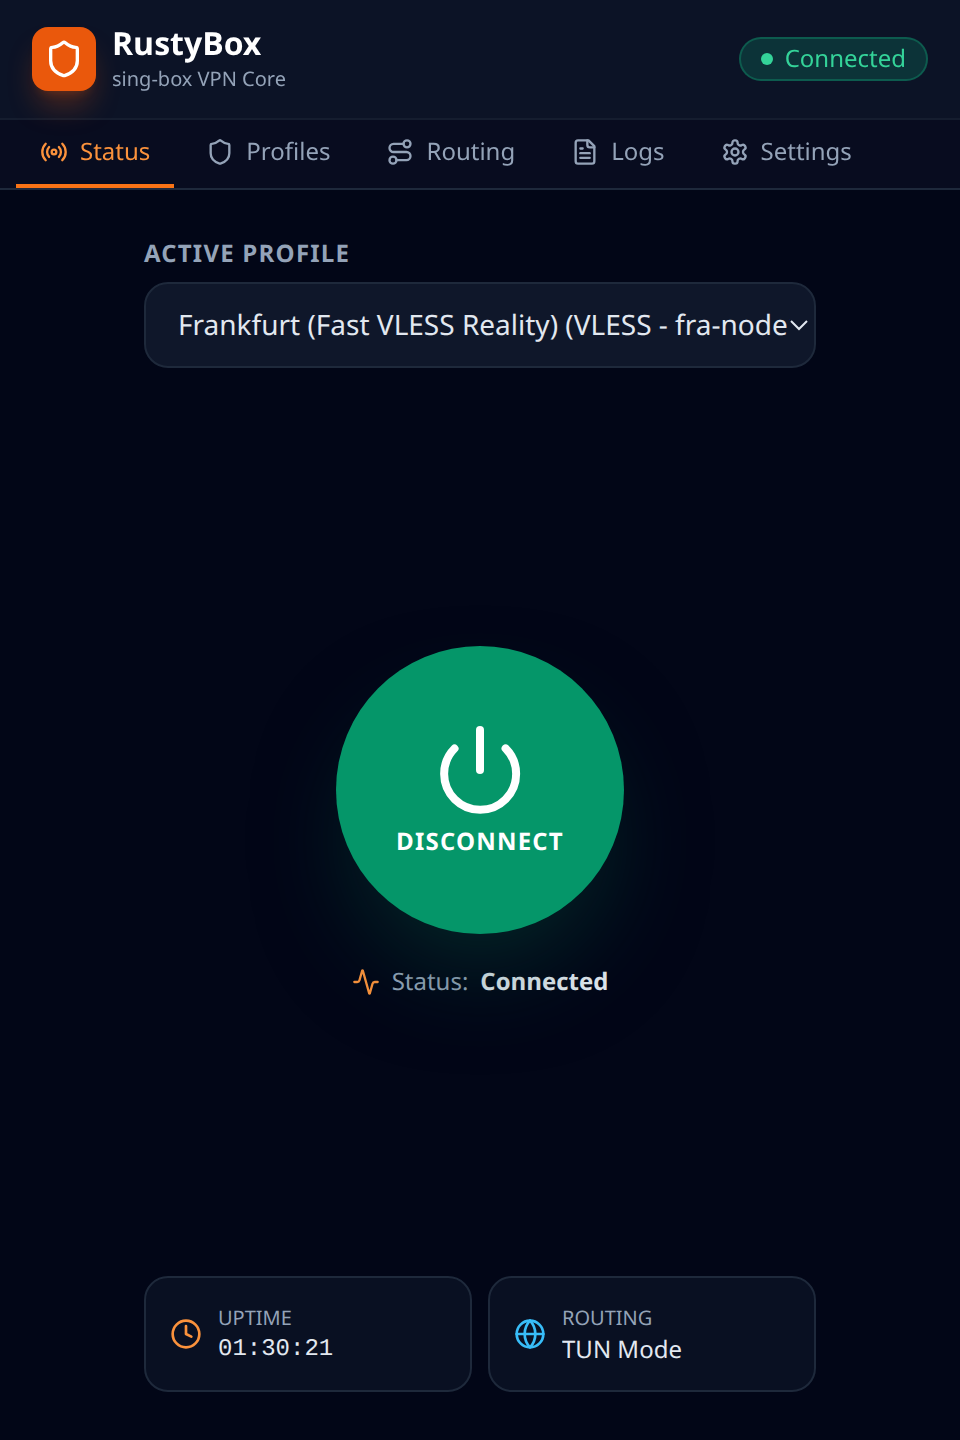
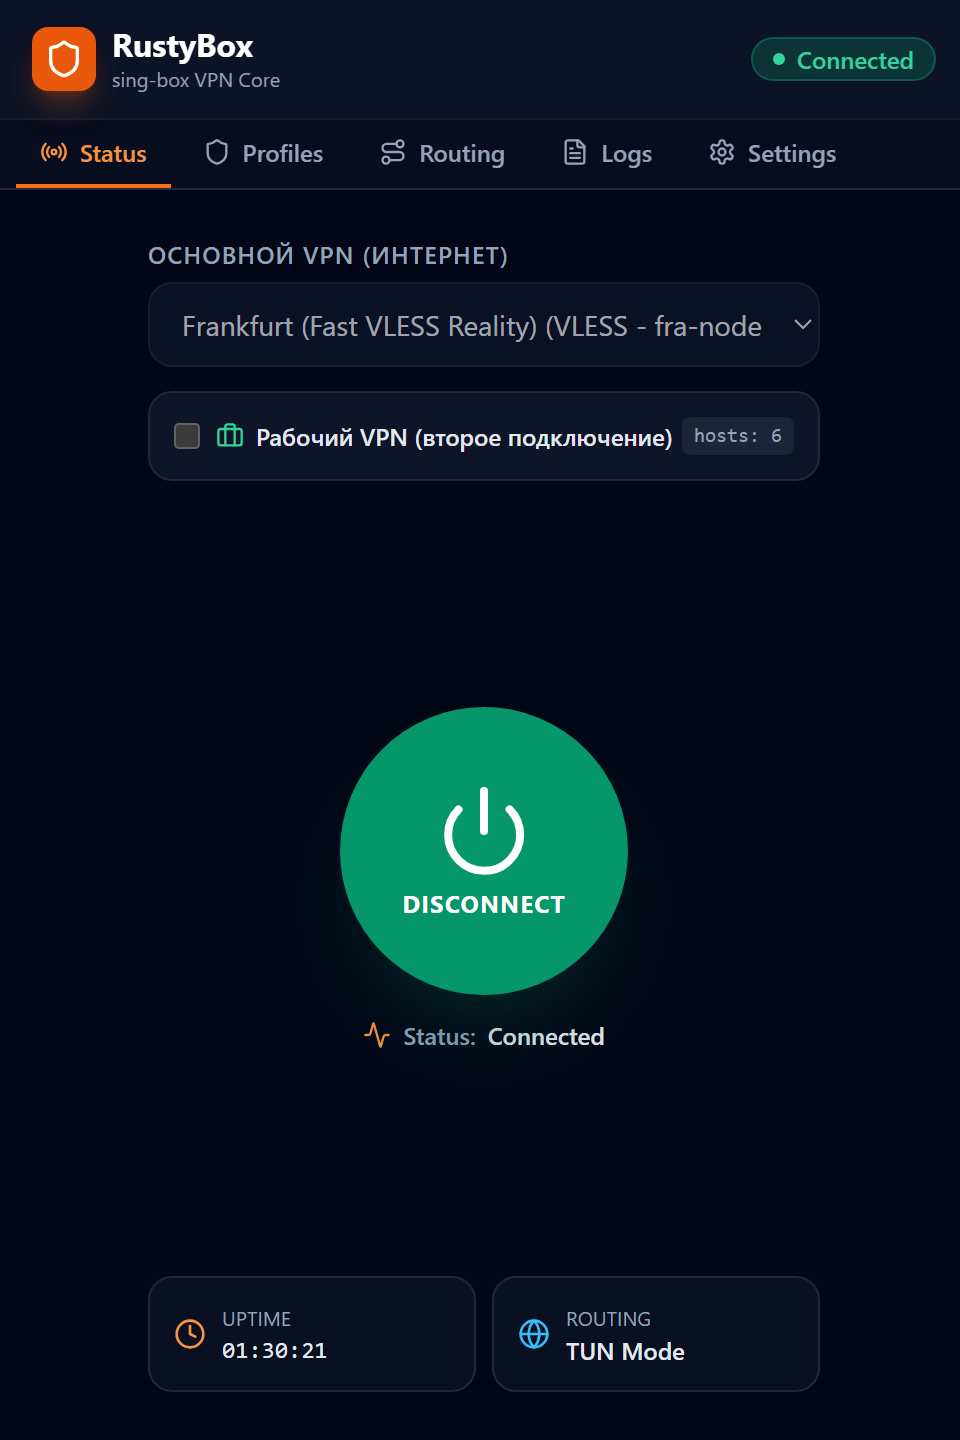
docs: update README and screenshots with OpenVPN, Dual-VPN, and MTU settings

diff --git a/frontend/src/api.ts b/frontend/src/api.ts
@@ -65,6 +65,23 @@ const mockProfiles: Profile[] = [
       fingerprint: "chrome",
     },
   },
+  {
+    id: "profile-ovpn-4",
+    name: "Corporate Office (OpenVPN UDP)",
+    server: "vpn.corp.company.com",
+    port: 1194,
+    latency_ms: 18,
+    mtu: 1420,
+    only_network_resources: true,
+    protocol: {
+      type: "Openvpn",
+      proto: "udp",
+      cipher: "AES-256-GCM",
+      comp_lzo: false,
+      auth_user_pass_required: false,
+      ca_cert: "-----BEGIN CERTIFICATE-----\nMIID...\n-----END CERTIFICATE-----",
+    },
+  },
 ];
 
 const mockRules: RoutingRule[] = [
@@ -254,6 +271,7 @@ export const api = {
         close_to_tray: true,
         singbox_path: null,
         tun_interface_name: "rustybox-tun",
+        tun_mtu: 1500,
         log_level: "info",
         auto_check_updates: true,
         auto_start: true,
@@ -356,6 +374,7 @@ export const api = {
         close_to_tray: true,
         singbox_path: null,
         tun_interface_name: "rustybox-tun",
+        tun_mtu: 1500,
         log_level: "info",
       };
     }

diff --git a/README.md b/README.md
@@ -9,7 +9,7 @@
 
 **RustyBox** — это быстрый, легковесный и безопасный кроссплатформенный VPN-клиент для операционных систем Windows и Linux, построенный на базе фреймворка **Tauri 2**, языка **Rust** и **React 18 / TypeScript**.
 
-В качестве высокопроизводительного сетевого ядра используется **[sing-box](https://github.com/SagerNet/sing-box)** (версии 1.14+), запускаемый в виде изолированного дочернего процесса. RustyBox направляет сетевой трафик через системный виртуальный сетевой адаптер **TUN** (`rustybox-tun` / Wintun), поддерживает современные протоколы **VLESS Reality** и **Shadowsocks 2022**, интеллектуальную маршрутизацию по доменным правилам (прямой трафик / VPN), перехват DNS, автоматический запрос прав администратора (UAC) на Windows и автозапуск вместе с системой.
+В качестве высокопроизводительного сетевого ядра используется **[sing-box](https://github.com/SagerNet/sing-box)** (версии 1.14+), запускаемый в виде изолированного дочернего процесса. RustyBox направляет сетевой трафик через системный виртуальный сетевой адаптер **TUN** (`rustybox-tun` / Wintun), поддерживает протоколы **VLESS Reality**, **Shadowsocks 2022** и **OpenVPN (.ovpn)**, одновременное подключение **Dual-VPN** (основной + корпоративный туннели), гибкую настройку **MTU** (по умолчанию 1500), интеллектуальную маршрутизацию по доменным правилам (прямой трафик / VPN), перехват DNS, автоматический запрос прав администратора (UAC) на Windows и автозапуск вместе с системой.
 
 ---
 
@@ -62,9 +62,14 @@
 - **Современные протоколы обхода блокировок**:
   - **VLESS REALITY**: эллиптическая кривая `x25519`, аутентификация по UUID v4, маскировка под популярные TLS-сайты (SNI, Chrome fingerprint) и поток `xtls-rprx-vision`.
   - **Shadowsocks**: современные шифры AEAD 2022 (`2022-blake3-aes-128-gcm`, `2022-blake3-aes-256-gcm`, `2022-blake3-chacha20-poly1305`), а также классические шифры AEAD (`aes-128-gcm`, `aes-256-gcm`, `chacha20-ietf-poly1305`).
+  - **OpenVPN**: импорт файлов конфигурации `.ovpn` (со встроенными `<ca>/<cert>/<key>` или внешними файлами сертификатов), поддержка UDP/TCP, режима `dev tun`, шифров `AES-256-GCM` и `AES-256-CBC`, сжатия `comp-lzo`, mTLS и аутентификации по логину и паролю.
+- **Режим Dual-VPN и раздельное туннелирование (Split Tunneling)**:
+  - Одновременное подключение основного профиля (для внешнего интернета) и рабочего/корпоративного профиля (для доступа к внутренним серверам и базам данных).
+  - Опция **«Только ресурсы сети»**: автоматический парсинг доменов из системного `hosts` и IP-маршрутов из конфигурации OpenVPN — рабочий туннель перехватывает исключительно корпоративные ресурсы, не задевая остальной трафик.
 - **Полноценный виртуальный сетевой адаптер TUN**:
   - Полный перехват трафика на уровне сетевого стека ОС через виртуальный адаптер `rustybox-tun` (`172.19.0.1/30` IPv4 и `fdfe:dcba:9876::1/126` IPv6).
   - На Windows используется высокоскоростной драйвер **Wintun** (v0.14+). Программа проверяет наличие драйвера и прав перед запуском ядра.
+  - **Управление MTU**: настраиваемый размер MTU для TUN-интерфейса в настройках приложения (по умолчанию `1500`), а также поддержка индивидуального MTU для каждого профиля (включая автоматический парсинг `tun-mtu` из `.ovpn` и параметров URI).
 - **Интеллектуальная маршрутизация по доменам (Routing Engine)**:
   - Режимы работы: **Маршрутизация по правилам (Domain Rules)**, **Полный VPN (Global VPN)** или **Прямой трафик (Global Direct)**.
   - Настройка действия по умолчанию (Fallback Action): направлять несовпадающие сайты через `VPN` или напрямую `DIRECT`.
@@ -74,6 +79,7 @@
   - Автоматическое прямое исключение для адреса самого прокси-сервера (`outbound: "direct"`), гарантирующее отсутствие циклических маршрутов.
 - **Интеграция с операционной системой**:
   - **Автозапуск с системой**: возможность запуска RustyBox в фоне при старте Windows/Linux через настройки приложения.
+  - **Автоподключение (Auto-Connect)**: автоматический старт VPN-сессии при запуске клиента.
   - **UAC-запрос прав администратора**: при запуске на Windows программа автоматически проверяет привилегии и запрашивает повышение прав через стандартный диалог UAC, а также предоставляет кнопку перезапуска с правами администратора в интерфейсе.
   - **Сворачивание в системный трей (Close to Tray)**: работа в фоновом режиме без загромождения панели задач, индикация статуса подключения в иконке трея.
   - **Чистый GUI-процесс**: на Windows сборка компилируется с флагом `IMAGE_SUBSYSTEM_WINDOWS_GUI`, исключая появление паразитных черных консольных окон.
@@ -135,6 +141,7 @@ graph TD
 | **VLESS** | REALITY (`x25519`), TLS, TCP | UUID v4 | Поток `xtls-rprx-vision`, маскировка под сторонние домены (SNI), Chrome fingerprint |
 | **Shadowsocks 2022** | `2022-blake3-aes-128-gcm`<br>`2022-blake3-aes-256-gcm`<br>`2022-blake3-chacha20-poly1305` | Предопределенный ключ (PSK) | Высокая устойчивость к DPI, сниженные накладные расходы |
 | **Shadowsocks AEAD** | `aes-128-gcm`, `aes-256-gcm`, `chacha20-ietf-poly1305` | Пароль | Классический стандарт SIP002 |
+| **OpenVPN** | `AES-256-GCM`, `AES-256-CBC` / UDP, TCP | Сертификаты (mTLS: CA, Cert, Key), TLS-Auth/Crypt, логин/пароль | Полная поддержка `.ovpn`, сжатие `comp-lzo`, интеграция с корпоративным режимом |
 
 ---
 
@@ -243,10 +250,10 @@ sudo chmod 666 /dev/net/tun
 
 ## Руководство пользователя
 
-### Импорт профилей
+### Импорт и управление профилями
 
-RustyBox поддерживает быстрый импорт конфигураций из буфера обмена:
-1. Скопируйте ссылку конфигурации вашего сервера:
+RustyBox поддерживает импорт конфигураций различных протоколов:
+1. **Импорт по ссылке (URI)**:
    - **VLESS Reality**:
      ```text
      vless://uuid-goes-here@server.com:443?security=reality&sni=target.com&fp=chrome&pbk=PublicKey1234567890&sid=abcdef&flow=xtls-rprx-vision&type=tcp#MyServer
@@ -255,16 +262,21 @@ RustyBox поддерживает быстрый импорт конфигура
      ```text
      ss://YWVzLTI1Ni1nY206cGFzc3dvcmQ=@server.com:8388#MyServer
      ```
-2. Откройте вкладку **Profiles** в RustyBox.
-3. Нажмите **«Import URI»** (или **«Import from Clipboard»**).
-4. Также доступно ручное добавление через кнопку **«Add Manual»**.
+   - Нажмите **«Import URI»** на вкладке **Profiles** и вставьте ссылку.
+2. **Импорт OpenVPN (`.ovpn`)**:
+   - Нажмите **«Import .ovpn»** и выберите файл конфигурации на диске. Поддерживаются как монолитные файлы со встроенными блоками `<ca>`, `<cert>`, `<key>`, `<tls-auth>`, `<tls-crypt>`, так и модульные файлы с внешними путями к сертификатам.
+   - Если сервер требует логин и пароль, вы можете указать их в окне импорта или сохранить заранее.
+3. **Редактирование профилей**:
+   - Любой профиль можно отредактировать: изменить адрес сервера, порт, параметры SNI/потока, учетные данные или задать индивидуальный MTU.
+4. **Режим Dual-VPN (Корпоративная сеть)**:
+   - Для профилей доступен переключатель **«Только ресурсы сети»**. В этом режиме профиль подключается одновременно с основным VPN или прямым интернетом, обслуживая только корпоративные домены (из `hosts`) и IP-подсети из конфигурации OpenVPN.
 
 ### Подключение и отключение
 
-- На вкладке **Status** выберите нужный профиль из выпадающего списка.
+- На вкладке **Status** выберите нужный профиль из выпадающего списка (при включенном Dual-VPN отображается также рабочий профиль).
 - Нажмите центральную кнопку питания для подключения.
 - Статус изменится: `Starting` &rarr; `Connected`.
-- Таймер начнет отсчет времени активной сессии.
+- Отображаются задержка (пинг), длительность сессии и статус Wintun/TUN-адаптера.
 - Для отключения нажмите кнопку повторно.
 
 ### Настройка правил маршрутизации
@@ -283,11 +295,21 @@ RustyBox поддерживает быстрый импорт конфигура
   - Быстрое включение/отключение любого правила чекбоксом или удаление.
 - **Импорт / Экспорт**: сохраняйте и загружайте списки правил в формате JSON.
 
-### Автозапуск вместе с системой
+### Настройка параметров сети, MTU и DNS
 
-На вкладке **Settings** доступен переключатель **«Start with System»**:
-- При включении RustyBox будет автоматически запускаться при загрузке операционной системы.
-- Включение опции **«Close to System Tray»** позволяет при закрытии окна оставлять соединение активным в фоновом режиме в системном трее.
+На вкладке **Settings** доступны расширенные сетевые параметры:
+- **TUN MTU**: размер Maximum Transmission Unit виртуального адаптера (по умолчанию `1500`). Позволяет оптимизировать передачу пакетов и устранить фрагментацию или потери в мобильных сетях и у провайдеров с PPPoE/L2TP.
+- **Имя виртуального интерфейса**: по умолчанию `rustybox-tun`.
+- **DNS-резолверы**:
+  - `VPN DNS (Remote)`: DNS-сервер для защищенных запросов (по умолчанию `1.1.1.1`).
+  - `Direct DNS (Local)`: DNS-сервер для прямых запросов в обход VPN (по умолчанию `77.88.8.8`).
+
+### Автозапуск и автоподключение
+
+На вкладке **Settings** доступны опции интеграции:
+- **«Start with System»**: автоматический запуск RustyBox при старте операционной системы.
+- **«Auto-connect on launch»**: автоматическое подключение к активному профилю сразу после запуска.
+- **«Close to System Tray»**: сворачивание в системный трей при закрытии окна, сохраняя активное соединение.
 
 ### Автоматические обновления
 
